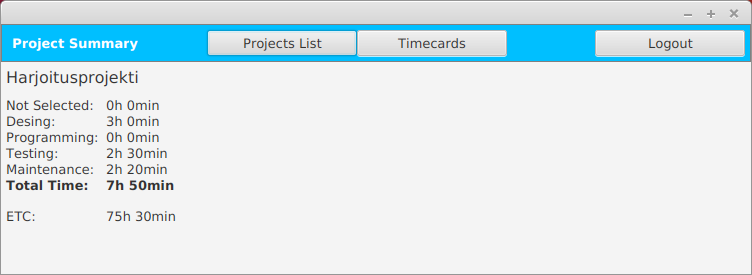
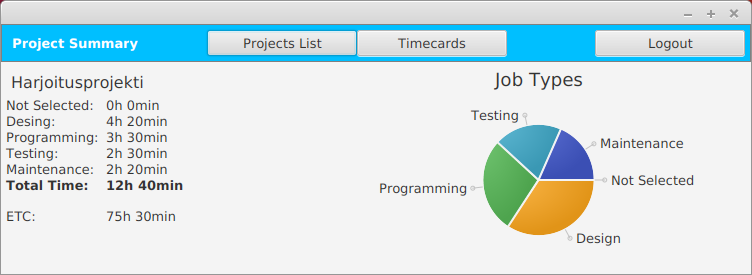
Graafi lisätty

diff --git a/Tyoajanseuranta/src/test/java/timecard/domain/TimecardTest.java b/Tyoajanseuranta/src/test/java/timecard/domain/TimecardTest.java
@@ -1,5 +1,6 @@
 package timecard.domain;
 
+import java.util.List;
 import org.junit.After;
 import org.junit.AfterClass;
 import org.junit.Before;
@@ -23,6 +24,48 @@ public class TimecardTest {
         timecardService = new TimecardService(projectDao, timecardDao, userDao);
     }
 
+    // User creation, login & logout tests
+    
+    @Test
+    public void nonExistingUserCantLogin() {
+        boolean result = timecardService.login("nonexisting");
+        assertFalse(result);      
+        assertEquals(null, timecardService.getLoggedUser());
+    }    
+    
+    @Test
+    public void userCanLogIn() {
+        boolean result = timecardService.login("testuser");
+        assertTrue(result);     
+        User loggedIn = timecardService.getLoggedUser();
+        assertEquals("Test User", loggedIn.getName() );
+    }
+    
+    @Test
+    public void userCanLogout() {
+        timecardService.login("testuser");
+        timecardService.logout();     
+        assertEquals(null, timecardService.getLoggedUser());
+    }    
+    
+    @Test
+    public void canNotCreateUserIfUsernameExists() throws Exception {
+        boolean result = timecardService.createUser("testuser", "Test User");
+        assertFalse(result);
+    }
+    
+    @Test
+    public void newUserCanLogin() throws Exception {
+        boolean result = timecardService.createUser("koodaaja", "Kalle koodaaja");
+        assertTrue(result);   
+        boolean loginOk = timecardService.login("koodaaja");
+        assertTrue(loginOk);      
+        User loggedIn = timecardService.getLoggedUser();
+        assertEquals("Kalle koodaaja", loggedIn.getName() );
+    }  
+    
+    // Project tests
+    
     @Test
     public void addingProjectReturnsTrue() {
         assertEquals(true, timecardService.addProject("name", 60));
@@ -32,14 +75,85 @@ public class TimecardTest {
     public void getProjectsReturnsEmptyList() {
         assertEquals(true, timecardService.getProjects().isEmpty());
     }
+
+    @Test
+    public void getProjectsReturnsList() {
+        timecardService.addProject("name", 60);
+        assertEquals(false, timecardService.getProjects().isEmpty());
+    }
+    
+    @Test
+    public void getProjectTotalTimeReturnsString() {
+        timecardService.addProject("name", 60);
+        timecardService.addTimecard(0, 60, 1, "description", "testuser");
+        assertEquals("1h 0min", timecardService.getProjectTotalTime(0));
+    }
+    
+    @Test
+    public void getProjectJobTypeTimeReturnsString() {
+        timecardService.addProject("name", 60);
+        timecardService.addTimecard(0, 60, 1, "description", "testuser");
+        assertEquals("1h 0min", timecardService.getProjectJobTypeTime(0,1));
+    }
+    
+    @Test
+    public void getProjectEtcReturnsString() {
+        timecardService.addProject("name", 60);
+        List<Project> projects = timecardService.getProjects();
+        Project project = projects.get(0);
+        assertEquals("1h 0min" , project.getEtcString());
+    }
+    
+    @Test
+    public void getProjectEtcReturnInt() {
+        timecardService.addProject("name", 60);
+        List<Project> projects = timecardService.getProjects();
+        Project project = projects.get(0);
+        assertEquals(60 , project.getEtc());
+    }
+    
+    @Test
+    public void projectEquals() {
+        timecardService.addProject("name", 60);
+        List<Project> projects = timecardService.getProjects();
+        Project project = projects.get(0);
+        assertEquals(true, project.equals(project));
+    }
+    
+    @Test
+    public void projectNotEquals() {
+        timecardService.addProject("name", 60);
+        timecardService.addProject("name2", 30);
+        List<Project> projects = timecardService.getProjects();
+        Project project1 = projects.get(0);
+        Project project2 = projects.get(1);
+        assertEquals(false, project1.equals(project2));
+    }
+    
+    @Test
+    public void projectNameWorks() {
+        Project project = new Project("name", 60);
+        assertEquals("name", project.getName());
+    }   
+    
+    
+    // Timecard tests
     
     @Test
     public void addingTimecardReturnsTrue() {
-        assertEquals(true, timecardService.addTimecard(1,1,1,"testi","user"));
+        assertEquals(true, timecardService.addTimecard(0,1,1,"testi","testuser"));
     }
     
     @Test
     public void getTimecardsReturnsEmptyList() {
         assertEquals(true, timecardService.getTimecards(0).isEmpty());
+    }
+    
+    @Test
+    public void getTimecardsReturnsList() {
+        timecardService.addProject("name", 60);
+        timecardService.addTimecard(0,60,1,"suunnittelu","testuser");
+        timecardService.addTimecard(0,60,2,"ohjelmointi","testuser");    
+        assertEquals(false, timecardService.getTimecards(0).isEmpty());
     }
 }

diff --git a/Tyoajanseuranta/src/main/java/timecard/ui/TimecardUi.java b/Tyoajanseuranta/src/main/java/timecard/ui/TimecardUi.java
@@ -4,7 +4,10 @@ import java.io.FileInputStream;
 import java.util.List;
 import java.util.Properties;
 import javafx.application.Application;
+import javafx.collections.FXCollections;
+import javafx.collections.ObservableList;
 import javafx.geometry.Insets;
+import javafx.geometry.Side;
 import javafx.scene.Node;
 import javafx.scene.Scene;
 import javafx.scene.control.Button;
@@ -19,6 +22,7 @@ import javafx.scene.layout.VBox;
 import javafx.scene.paint.Color;
 import javafx.scene.control.ComboBox;
 import javafx.stage.Stage;
+import javafx.scene.chart.*;
 
 import timecard.dao.FileProjectDao;
 import timecard.dao.FileTimecardDao;
@@ -434,6 +438,7 @@ public class TimecardUi extends Application {
         
         VBox summaryPane = new VBox();
         summaryPane.setPadding(new Insets(5,5,5,5));
+        summaryPane.setPrefWidth(400);
 
         Label notselectedTime  = new Label(timecardService.getProjectJobTypeTime(selectedProject.getId(), 0));
         notselectedTime.setMinHeight(0);
@@ -542,9 +547,44 @@ public class TimecardUi extends Application {
         etcTimeRow.getChildren().addAll(etcTimeTitle, etcTime);
         etcTimeRow.setPadding(new Insets(15,0,0,0));
         
-        summaryPane.getChildren().addAll(notselectedTimeRow, designTimeRow, programmingTimeRow, testingTimeRow, maintenanceTimeRow, totalTimeRow, etcTimeRow);
+        summaryPane.getChildren().addAll(project(selectedProject), notselectedTimeRow, designTimeRow, programmingTimeRow, testingTimeRow, maintenanceTimeRow, totalTimeRow, etcTimeRow);
         
-        projectSummaryPane.getChildren().addAll(topLabel, project(selectedProject), summaryPane);
+        // Graph
+        
+        VBox graphPane = new VBox(0);
+        
+        int jobNotSelected = 0;
+        int jobDesign = 0;
+        int jobProgramming = 0;
+        int jobTesting = 0;
+        int jobMaintenance = 0;
+        
+        jobNotSelected = timecardService.getProjectJobTypeTimeInt(selectedProject.getId(),0);
+        jobDesign = timecardService.getProjectJobTypeTimeInt(selectedProject.getId(),1);
+        jobProgramming = timecardService.getProjectJobTypeTimeInt(selectedProject.getId(),2);
+        jobTesting = timecardService.getProjectJobTypeTimeInt(selectedProject.getId(),3);
+        jobMaintenance = timecardService.getProjectJobTypeTimeInt(selectedProject.getId(),4);
+        
+        ObservableList<PieChart.Data> pieChartData =
+                FXCollections.observableArrayList(
+                new PieChart.Data("Not Selected", jobNotSelected),
+                new PieChart.Data("Design", jobDesign),
+                new PieChart.Data("Programming", jobProgramming),
+                new PieChart.Data("Testing", jobTesting),
+                new PieChart.Data("Maintenance", jobMaintenance));
+        final PieChart chart = new PieChart(pieChartData);
+        chart.setLabelLineLength(10);
+        chart.setLegendVisible(false);
+        chart.setLegendSide(Side.LEFT);
+        chart.setTitle("Job Types");
+
+
+        graphPane.getChildren().addAll(chart);
+        
+        HBox summaryAndGraph = new HBox();
+        summaryAndGraph.getChildren().addAll(summaryPane, graphPane);
+       
+        projectSummaryPane.getChildren().addAll(topLabel, summaryAndGraph);
     }
     
     public Node project (Project project) {

diff --git a/Tyoajanseuranta/src/main/java/timecard/domain/TimecardService.java b/Tyoajanseuranta/src/main/java/timecard/domain/TimecardService.java
@@ -121,6 +121,20 @@ public class TimecardService {
         
         return timeString;
     }
+    
+    public int getProjectJobTypeTimeInt(int projectId, int type) {          
+        List<Timecard> timecards = timecardDao.getAll()
+            .stream()
+            .filter(t-> t.getProjectId() == projectId)
+            .filter(t-> t.getType() == type)
+            .collect(Collectors.toList());
+        int time = 0;
+        for (Timecard t : timecards) {
+            time += t.getTime();
+        }
+        
+        return time;
+    }
         
     /**
     * sisäänkirjautuminen
